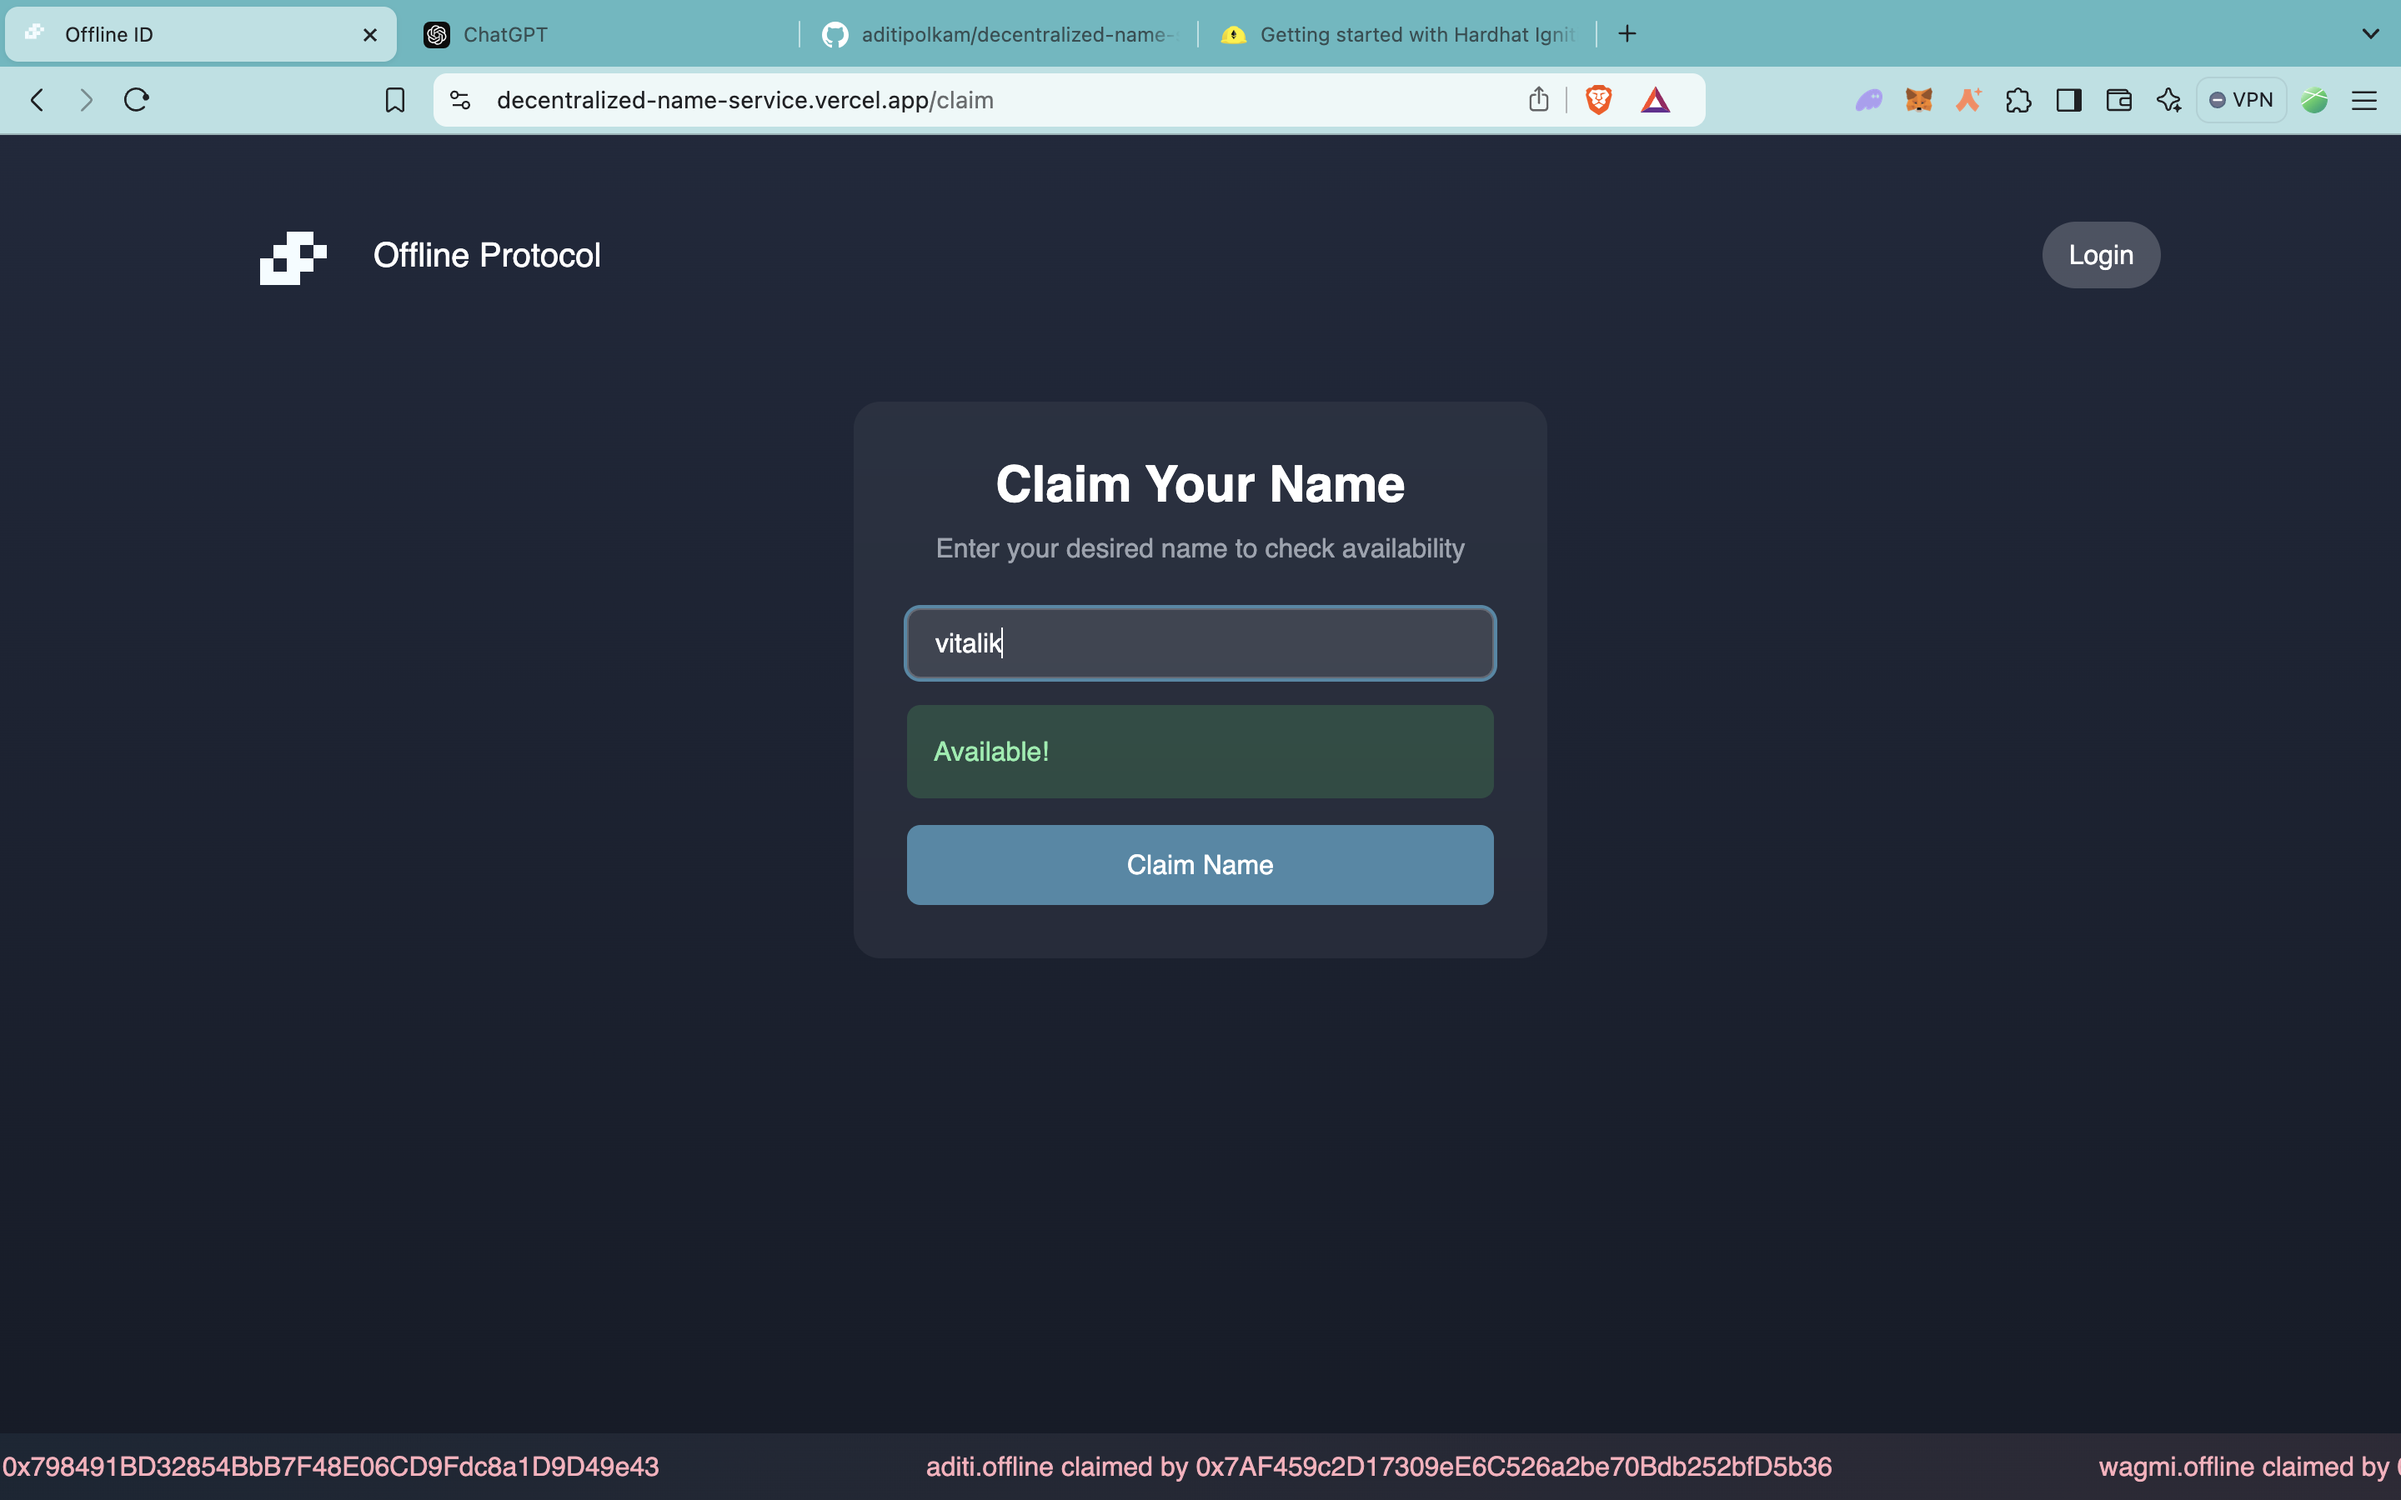
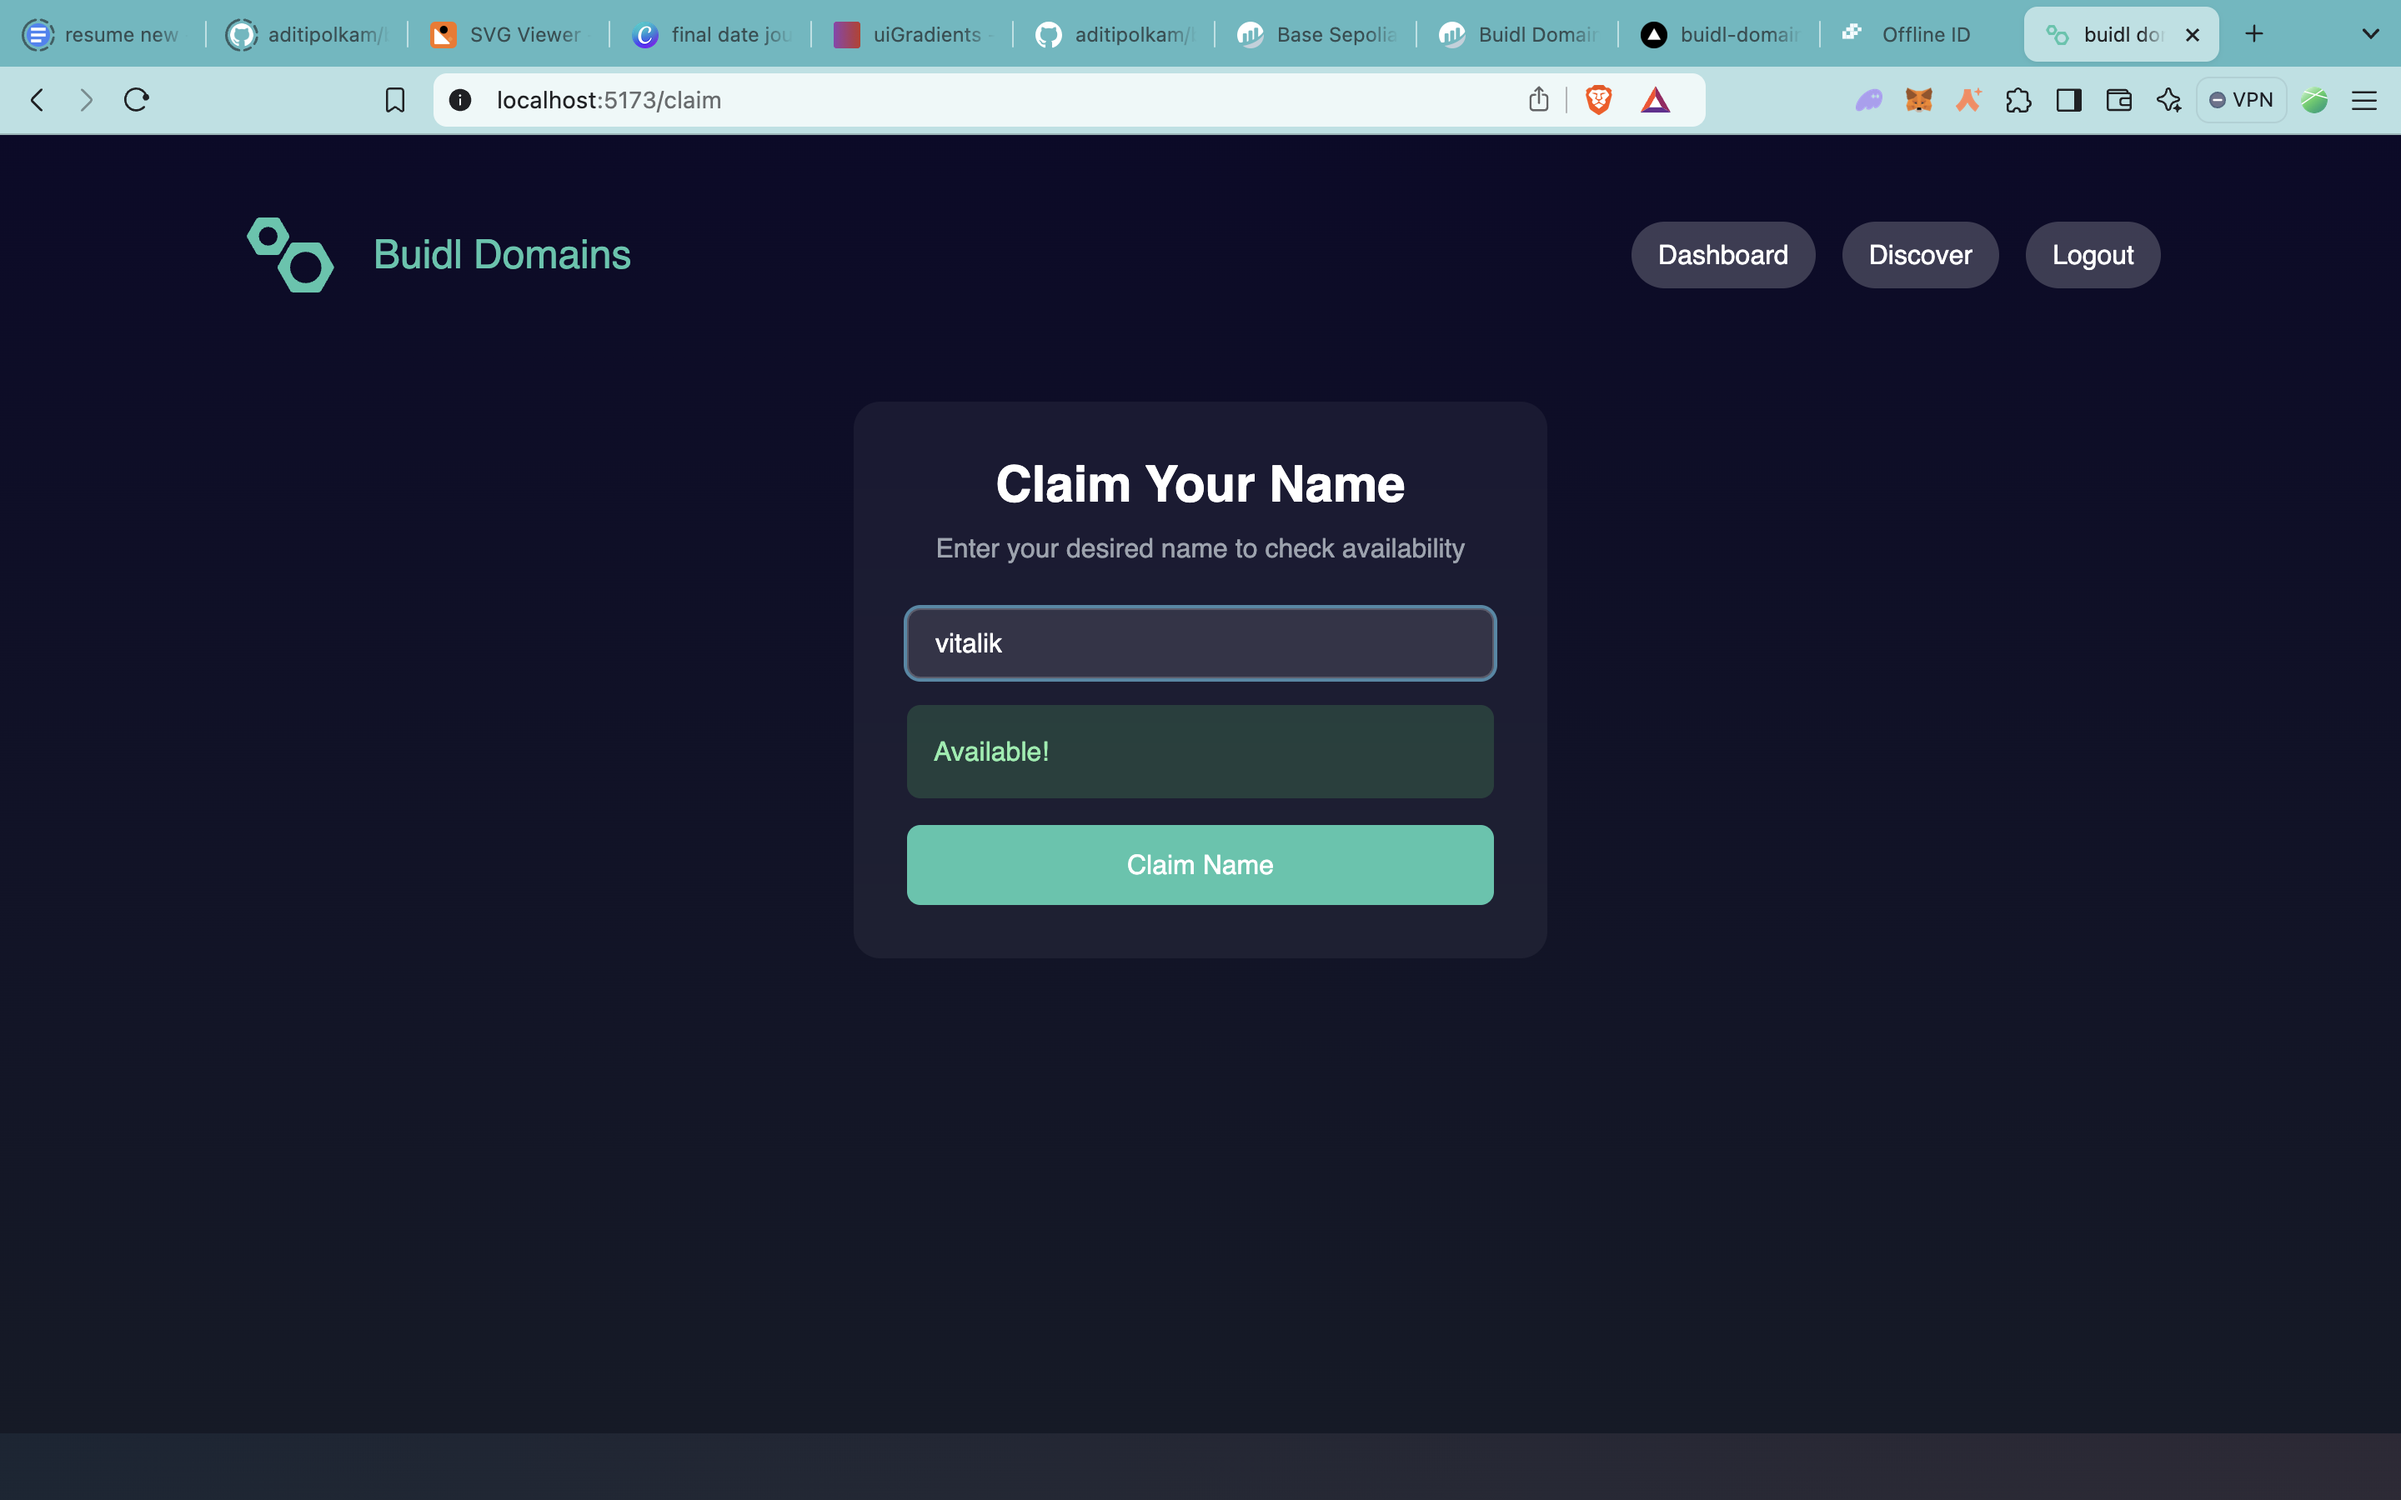
style: bug fixes

diff --git a/frontend/src/routes/Claim.tsx b/frontend/src/routes/Claim.tsx
@@ -53,7 +53,7 @@ export default function Claim() {
           <div className="px-8 py-6 mt-16">
             <h1 className="text-3xl font-bold text-white mb-4">
               You have already claimed the name:{" "}
-              <span className="text-[#ffafbd]">{domain.name}</span>
+              <span className="text-primary">{domain.name}</span>
             </h1>
             <p className="text-gray-400 text-lg mb-8">
               Head over to your dashboard to set up your profile or view it.
@@ -61,13 +61,13 @@ export default function Claim() {
             <div className="flex justify-center gap-4">
               <a
                 href="/dashboard"
-                className="inline-block px-6 py-3 text-white font-semibold bg-gradient-to-r from-[#4989a7] to-[#ffafbd] rounded-lg shadow-md hover:shadow-lg transition-shadow"
+                className="inline-block px-6 py-3 text-white font-semibold bg-primary rounded-lg shadow-md hover:shadow-lg transition-shadow"
               >
                 Go to Dashboard
               </a>
               <a
                 href={`/profile/${domain.name}`}
-                className="inline-block px-6 py-3 text-white font-semibold bg-gradient-to-r from-[#ffafbd] to-[#4989a7] rounded-lg shadow-md hover:shadow-lg transition-shadow"
+                className="inline-block px-6 py-3 text-white font-semibold bg-primary rounded-lg shadow-md hover:shadow-lg transition-shadow"
               >
                 View Profile
               </a>

diff --git a/frontend/src/components/profile-card.tsx b/frontend/src/components/profile-card.tsx
@@ -27,7 +27,7 @@ function ProfileCard({ domain }: ProfileCardProps) {
             <h3 className="text-lg font-semibold text-white truncate">
               {domain.name}
             </h3>
-            <p className="text-[#4989a7] text-sm">{domain.name}.offline</p>
+            <p className="text-[#4989a7] text-sm">{domain.name}.buidl</p>
             <p className="text-gray-400 text-sm mt-1">
               {domain.profession ? domain.profession : "---"}
             </p>

diff --git a/frontend/src/routes/Dashboard.tsx b/frontend/src/routes/Dashboard.tsx
@@ -91,7 +91,7 @@ function Dashboard() {
       <div className="bg-white/5 backdrop-blur-lg rounded-2xl p-8 space-y-8">
         <div className="text-center space-y-2">
           <h1 className="text-3xl font-bold text-white">Setup Profile</h1>
-          <p className="text-gray-400">Customize your Offline ID profile</p>
+          <p className="text-gray-400">Customize your Buidl ID profile</p>
         </div>
 
         <form onSubmit={handleSubmit} className="space-y-6">

diff --git a/frontend/src/routes/Profile.tsx b/frontend/src/routes/Profile.tsx
@@ -19,7 +19,7 @@ export default function Profile() {
               <h1 className="text-3xl font-bold text-white">
                 {domain.display_name ? domain.display_name : "---"}
               </h1>
-              <p className="text-gray-400">{domain.name}.offline</p>
+              <p className="text-gray-400">{domain.name}.buidl</p>
             </div>
           </div>
 

diff --git a/frontend/src/main.tsx b/frontend/src/main.tsx
@@ -33,9 +33,6 @@ createRoot(document.getElementById("root")!).render(
             createOnLogin: "users-without-wallets",
             // createOnLogin: "all-users",
           },
-          // defaultChain: sepolia,
-          // supportedChains: [sepolia],
-
           defaultChain: baseSepolia,
           supportedChains: [baseSepolia],
         }}

diff --git a/frontend/src/components/news-ticker.tsx b/frontend/src/components/news-ticker.tsx
@@ -9,7 +9,7 @@ export function NewsTicker() {
     if (domains.length > 0) {
       const newClaims = domains.map(
         (user: { name: string; address: string }) =>
-          `${user.name}.offline claimed by ${user.address}`
+          `${user.name}.buidl claimed by ${user.address}`
       );
       setClaims(newClaims);
     }

diff --git a/README.md b/README.md
@@ -1,12 +1,12 @@
 # Decentralized Name Service
 
-This project is a **Decentralized Name Service (DNS)**, enabling users to register, manage, and resolve ids for the Offline Protocol on the blockchain. The project leverages blockchain technology to provide a decentralized, secure, and transparent naming system.
+This project is a **Decentralized Name Service (DNS)**, enabling users to register, manage, and resolve ids on the blockchain. The project leverages blockchain technology to provide a decentralized, secure, and transparent naming system.
 
 ![Decentralized Name Service](/assets/landing.png)
 
 It consists of three main components:
 
-1. **Contract**: The smart contract `OfflineId.sol` manages name registration and ownership on the blockchain.
+1. **Contract**: The smart contract `BuidlDomains.sol` manages name registration and ownership on the blockchain.
 2. **Backend**: A GraphQL server built with Node.js and TypeScript provides an API layer for interacting with the contract data that is indexed and managing metadata.
 3. **Frontend**: A React application built with Vite serves as the user interface for interacting with the decentralized name service, using Privy smart wallets.
 
@@ -14,11 +14,11 @@ It consists of three main components:
 
 ### Deployments and Documentation
 
-Backend: https://dns-api.aditipolkam.me
+Backend: https://buidl-domains.aditipolkam.me/
 
 Frontend: https://decentralized-name-service.vercel.app
 
-Contract: https://sepolia.basescan.org/token/0xddb8e92e50afc322009eaf50165b9e3deff10d81
+Contract: https://sepolia.basescan.org/token/0x53bd9bdff89037a97375e33ae1c412e94d7f2c6c
 
 API Docs: [/backend/README.md](/backend/README.md)
 
@@ -90,13 +90,13 @@ Navigate to the `contract` folder to set up the smart contract.
      ```
    - Deploy the contract to the local node:
      ```bash
-     npx hardhat ignition deploy ignition/modules/OfflineId.ts --network localhost
+     npx hardhat ignition deploy ignition/modules/buidl.ts --network localhost
      ```
 
 4. (Optional) Deploy to a testnet - Configure your `.env` file with the necessary keys (e.g., `PRIVATE_KEY`, `ALCHEMY_KEY`):.
    - Deploy:
      ```bash
-     npx hardhat ignition deploy ignition/modules/OfflineId.ts --network <testnet-name>
+     npx hardhat ignition deploy ignition/modules/buidl.ts --network <testnet-name>
      ```
 
 ---
